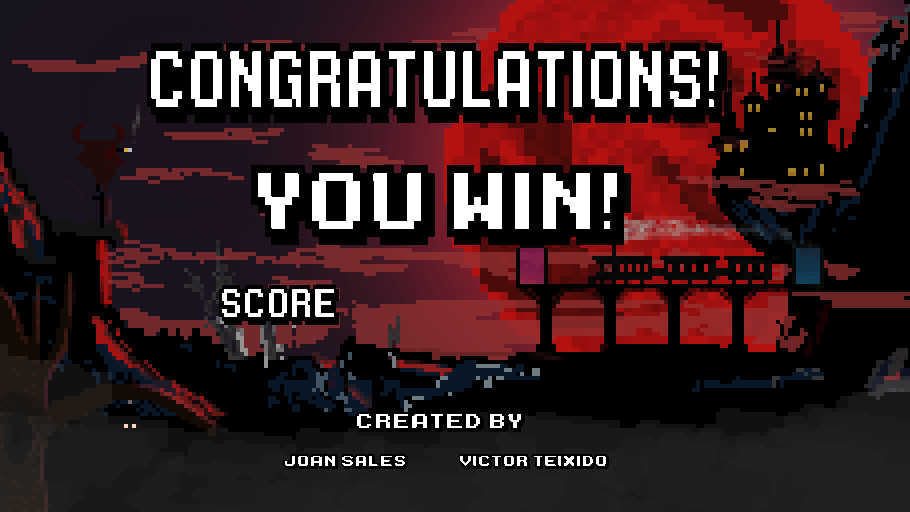
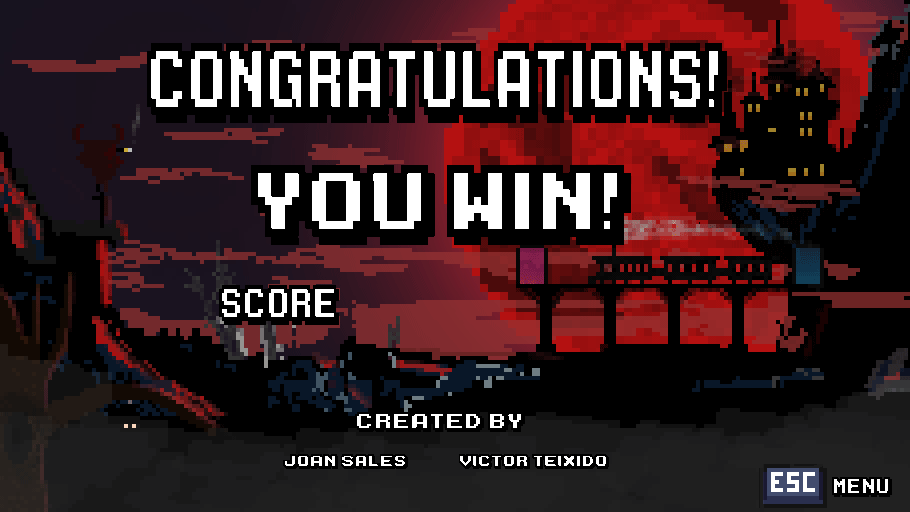
lose screen done

Changed region(s): [[0.8308, 0.9062, 0.9846, 1.0]]

diff --git a/02-Bubble/02-Bubble/Menu.cpp b/02-Bubble/02-Bubble/Menu.cpp
@@ -74,15 +74,16 @@ void Menu::init(ShaderProgram& shaderProgram)
 	winSprite = Sprite::createSprite(glm::ivec2(720, 405), glm::vec2(1.f, 1.f), &winSpriteSheet, &shaderProgram);
 	winSprite->setPosition(glm::vec2(0.f, 0.f));
 
-	initNumberSprite(shaderProgram);
+	loseSpriteSheet.loadFromFile("images/lose_screen.png", TEXTURE_PIXEL_FORMAT_RGBA);
+	loseSpriteSheet.setMagFilter(GL_NEAREST);
+	loseSprite = Sprite::createSprite(glm::ivec2(720, 405), glm::vec2(1.f, 1.f), &loseSpriteSheet, &shaderProgram);
+	loseSprite->setPosition(glm::vec2(0.f, 0.f));
 
-	currentTime = 0;
+	initNumberSprite(shaderProgram);
 }
 
 void Menu::update(int deltaTime)
 {
-	currentTime += deltaTime;
-
 	switch (state)
 	{
 	case Main:
@@ -96,7 +97,9 @@ void Menu::update(int deltaTime)
 		break;
 	case Win:
 		winSprite->update(deltaTime);
-		winScreenTime(deltaTime);
+		break;
+	case Lose:
+		loseSprite->update(deltaTime);
 		break;
 	default:
 		break;
@@ -120,6 +123,10 @@ void Menu::render()
 		winSprite->render();
 		renderScore();
 		break;
+	case Lose:
+		loseSprite->render();
+		renderScore();
+		break;
 	default:
 		break;
 	}
@@ -128,21 +135,6 @@ void Menu::render()
 void Menu::setSelection(int i)
 {
 	mainSprite->changeAnimation(i);
-}
-
-void Menu::winScreenTime(int deltaTime)
-{
-	if (currentTime / 1000 >= 1)
-	{
-		currentTime /= 1000;
-		--winScreenShowTime;
-
-		if (winScreenShowTime == 0)
-		{
-			state = Credits;
-		}
-		cout << "One second less: " << winScreenShowTime << endl;
-	}
 }
 
 void Menu::initNumberSprite(ShaderProgram& shaderProgram)

diff --git a/02-Bubble/02-Bubble/Menu.h b/02-Bubble/02-Bubble/Menu.h
@@ -23,27 +23,23 @@ public:
 	void render();
 	void setSelection(int i);
 	void setMenuState(MenuState m) { state = m; };
-	void setScreenShowTime(int i) { winScreenShowTime = i; };
 	void setPlayerFinalScore(int i) { playerFinalScore = i; };
 	void initNumberSprite(ShaderProgram& shaderProgram);
 	void renderNumber(int n, int x, int y);
 	void renderScore();
 
 private:
-	void winScreenTime(int deltaTime);
-
-private:
 	ShaderProgram texProgram;
-	Texture mainSpritesheet, helpSpriteSheet, creditsSpriteSheet, winSpriteSheet, numbersSpritesheet;
+	Texture mainSpritesheet, helpSpriteSheet, creditsSpriteSheet, winSpriteSheet, loseSpriteSheet, numbersSpritesheet;
 	Sprite* mainSprite;
 	Sprite* helpSprite;
 	Sprite* creditsSprite;
 	Sprite* winSprite;
+	Sprite* loseSprite;
 	Sprite* numberSprite;
 
 	MenuState state = Main;
 
-	int currentTime, winScreenShowTime;
 	int playerFinalScore;
 };
 

diff --git a/02-Bubble/02-Bubble/Game.cpp b/02-Bubble/02-Bubble/Game.cpp
@@ -218,11 +218,12 @@ void Game::updateScene(int deltaTime)
 		{
 			menu.setPlayerFinalScore(scene->getPlayerScore());
 			menu.setMenuState(Win);
-			menu.setScreenShowTime(8);
 			bMenuShowing = true;
 		}
 		break;
 	case StageState::GameOver:
+		menu.setPlayerFinalScore(scene->getPlayerScore());
+		menu.setMenuState(Lose);
 		bMenuShowing = true;
 		break;
 	default:

diff --git a/02-Bubble/02-Bubble/MenuState.h b/02-Bubble/02-Bubble/MenuState.h
@@ -6,7 +6,8 @@ enum MenuState
 	Main,
 	Help,
 	Credits,
-	Win
+	Win,
+	Lose
 };
 
 #endif
